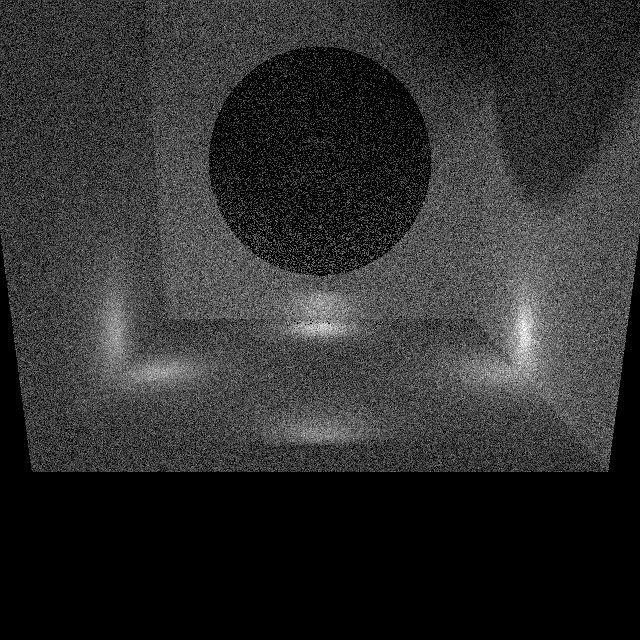
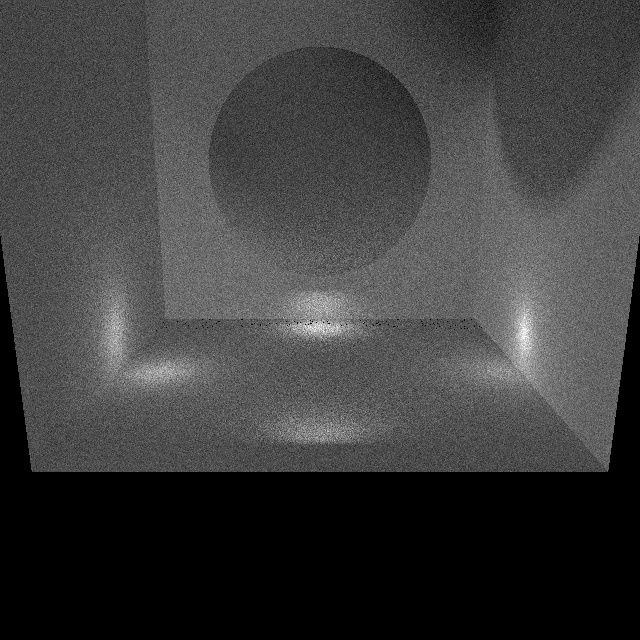
Improved geometry tracing and especially sphere!

diff --git a/src/geometric_utils.cpp b/src/geometric_utils.cpp
@@ -20,6 +20,8 @@ float intersection_with_box_plane(vec3 plane, vec3 origin, vec3 direction){
     // exclude back face
     if(dot(direction, plane) < 0.0f)
         return std::numeric_limits<float>::infinity();
+    if(t<1e-6)
+        return std::numeric_limits<float>::infinity();
     return t;
 }
 
@@ -34,11 +36,16 @@ float intersection_with_sphere(float radius, vec3 origin, vec3 direction){
         return std::numeric_limits<float>::infinity();
     float t1 = (-2.0*dot(origin, direction) - sqrt(desc)) / 2.0 / dot(direction, direction);
     float t2 = (-2.0*dot(origin, direction) + sqrt(desc)) / 2.0 / dot(direction, direction);
-    if(t1<0.0f)
+    if(t1<1e-6)
         t1 = std::numeric_limits<float>::infinity();
-    if(t2<0.0f)
+    if(t2<1e-6)
         t2 = std::numeric_limits<float>::infinity();
-    return std::min(t1, t2);
+    float t = std::min(t1, t2);
+
+    vec3 pos = origin + direction*t;
+    if(dot(pos, origin-pos) <= 0.0f)
+        return std::numeric_limits<float>::infinity();
+    return t;
 }
 
 // TODO Probably not needed

diff --git a/src/lighting/lighting.cpp b/src/lighting/lighting.cpp
@@ -19,11 +19,16 @@ static float intersection_with_sphere(float radius, vec3 origin, vec3 direction)
         return std::numeric_limits<float>::infinity();
     float t1 = (-2.0*dot(origin, direction) - sqrt(desc)) / 2.0 / dot(direction, direction);
     float t2 = (-2.0*dot(origin, direction) + sqrt(desc)) / 2.0 / dot(direction, direction);
-    if(t1<0.0f)
+    if(t1<1e-6)
         t1 = std::numeric_limits<float>::infinity();
-    if(t2<0.0f)
+    if(t2<1e-6)
         t2 = std::numeric_limits<float>::infinity();
-    return std::min(t1, t2);
+    float t = std::min(t1, t2);
+
+    vec3 pos = origin + direction*t;
+    if(dot(pos, origin-pos) <= 0.0f)
+        return std::numeric_limits<float>::infinity();
+    return t;
 }
 
 class LightToDistribution: public ::detail::DdfImpl {

diff --git a/src/GeometrySphereInBox.cpp b/src/GeometrySphereInBox.cpp
@@ -23,14 +23,14 @@ std::optional<surface_intersection> GeometrySphereInBox::traceRay(vec3 origin, v
 
     for(size_t i = 0; i<6; ++i){
         float t = intersection_with_box_plane(planes[i], origin, direction);
-        if(t>1e-6 && t<dist){
+        if(t<dist){
             dist = t;
             intersected_plane = i;
         }
     }// for i
 
     float t = intersection_with_sphere(0.5f, origin, direction);
-    if(t>1e-6 && t<dist){
+    if(t<dist){
         dist = t;
         intersected_sphere = true;
         intersected_plane = -1;

diff --git a/src/main.cpp b/src/main.cpp
@@ -32,7 +32,7 @@ void render(const Scene& scene, RenderPlane& r_plane, size_t n_samples){
         // ray bouncing loop
         // with hard-limited depth
         float dimming_coef = 1.0f;
-        for(size_t depth=0; depth<2; ++depth){
+        for(size_t depth=0; depth<3; ++depth){
 
             std::optional<surface_intersection> si = scene.geometry->traceRay(origin, direction);
             std::optional<light_intersection> li   = scene.lighting->traceRayToLight(origin, direction);

diff --git a/src/lighting/lighting.h b/src/lighting/lighting.h
@@ -33,6 +33,7 @@ class PointLight:public Light {
 private:
     float virtual_radius;
 public:
+    // TODO Maybe remove virtual_radius (not needed anymore)
     PointLight(glm::vec3 origin, float virtual_radius, float power=1.0f){
         this->position = origin;
         this->power = power;
